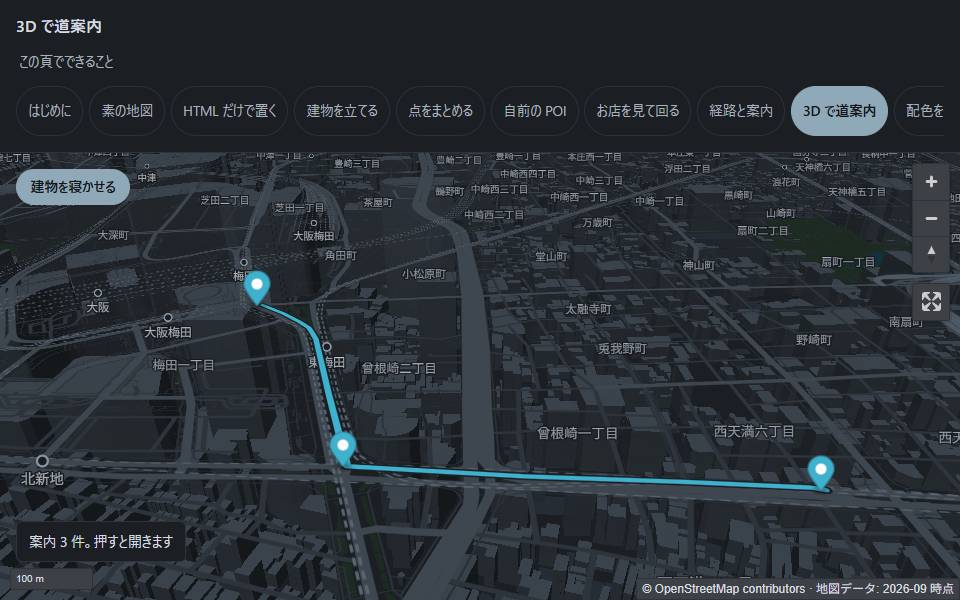
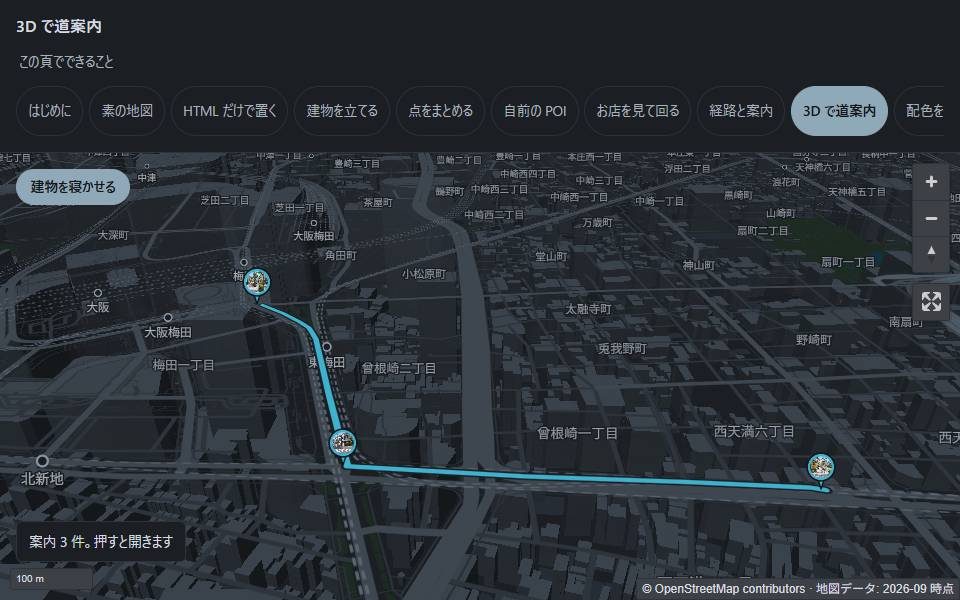
feat(route): ピンらしく尖りを付け、線と溶けないよう細く囲う
**2 つ指摘を受けた**（2026-10-09・本番を見て）。

1. 「できればピンぽく、〇 の ▼ を下につけたい」
2. 「**みちあんないの線といろがどうかしています。
   ボーダーでほそいせんでかこめるといいかも**」

## 尖り

丸だけだと**どこを指しているのか分からない**。地図の目印は
「先端がその地点」という読み方が共通していて、丸を中央に置くと
半径のぶん指す場所がぼやける。下に 8px の尖りを付け、
`anchor: "bottom"` で**先端を座標に合わせた**。

付け根は丸の内側へ入れる。離すと「丸と三角」に見えて、ピンに見えない。

## 囲い

**色だけで描くと、経路の線の上で溶ける**（線と同じ色なので）。
線は「色 ＋ 縁取り（casing）」で地図から浮かせているので、
**ピンも同じ作りにした**。丸の外側に 1.5px、尖りにも同じ色の `stroke`。

**新しい色は作っていない**（baseline §11）。`ROUTE_DEFAULTS.casingColor`
＝ 経路の線の縁取り・POI の縁・ラベルの縁取りと同じ値。

囲いのぶん箱を 3px 広げた（狭いと囲いが切れて、縁が欠けて見える）。

## 反映

LP のサムネ 2 枚（`shots/route.jpg` / `shots/3d-route.jpg`）を撮り直し、
`route` カードの `alt` と説明文も、写っているものに合わせた。

落ちるテストを先に 3 本（尖りの有無・箱の広さ・囲いの色が本体と違うこと）。
実物は 420px / 960px / 1440px で見て、線の上のピンが分かれることを確かめた。

Claude-Session: https://claude.ai/code/session_01JEnSBiPU7urDZnApNWnAtP

diff --git a/packages/elements/src/mmj-route.js b/packages/elements/src/mmj-route.js
@@ -142,8 +142,9 @@ export class MmjRoute extends HTMLElement {
       const spec = stepPinSpec(step, color ?? ROUTE_DEFAULTS.color);
       // **写真を持つ点だけ、自前の丸にする。**持たない点は既定のピンのまま
       // （見た目が違うこと自体が「ここに写真がある」の合図になる）
+      // **尖りの先が座標。**`anchor: "bottom"` で箱の下端を地点へ合わせる
       const options = spec.kind === "photo"
-        ? { element: photoPin(spec, step.text), anchor: "center" }
+        ? { element: photoPin(spec, step.text), anchor: "bottom" }
         : (color ? { color } : {});
       const marker = new maplibregl.Marker(options).setLngLat(step.lngLat);
       // **写真も文字も DOM で組む。**`setHTML` は使わない（popup.js の頭に理由）
@@ -182,19 +183,19 @@ let clipSeq = 0;
  * **`preserveAspectRatio="xMidYMid slice"` で中央を切る。**縦長でも横長でも
  * 丸が欠けない。`slice` が無いと余白が出て、**丸の中に四角が浮く**。
  *
- * @param {{ href: string | null, radius: number, size: number, color: string }} spec
+ * @param {{ href: string | null, radius: number, tail: number, width: number, height: number, color: string, casing: string }} spec
  * @param {string} label 読み上げ用（その点の案内文）
  * @returns {SVGSVGElement}
  */
 function photoPin(spec, label) {
-  const { size, radius, color } = spec;
-  const center = size / 2;
+  const { width, height, radius, tail, color, casing } = spec;
+  const center = width / 2;
   const clipId = `mmj-route-pin-${(clipSeq += 1)}`;
 
   const svg = document.createElementNS(SVG_NS, "svg");
-  svg.setAttribute("width", String(size));
-  svg.setAttribute("height", String(size));
-  svg.setAttribute("viewBox", `0 0 ${size} ${size}`);
+  svg.setAttribute("width", String(width));
+  svg.setAttribute("height", String(height));
+  svg.setAttribute("viewBox", `0 0 ${width} ${height}`);
   svg.setAttribute("role", "img");
   // **読み上げに「写真あり」まで伝える。**丸の中身は目で見た人にしか分からない
   svg.setAttribute("aria-label", label === "" ? "写真のある地点" : `${label}（写真あり）`);
@@ -223,7 +224,28 @@ function photoPin(spec, label) {
   ring.setAttribute("stroke", color);
   ring.setAttribute("stroke-width", "2.5");
 
-  svg.append(defs, image, ring);
+  // **その外側をもう 1 本、細く囲う。**色だけだと経路の線の上で溶ける
+  // （線と同じ色なので）。線が「色＋縁取り」で浮いているのと同じ作りにする
+  const border = circleAt(center, radius + 1.9);
+  border.setAttribute("fill", "none");
+  border.setAttribute("stroke", casing);
+  border.setAttribute("stroke-width", "1.5");
+
+  // **尖りは丸より先に描く。**あとに描くと、丸の縁の上に三角が乗って濁る。
+  // 三角にも同じ囲いを `stroke` で付ける（線の上に置いても形が残る）
+  const point = document.createElementNS(SVG_NS, "polygon");
+  const half = tail * 0.62;
+  // 付け根は丸の内側へ入れる。**離すと「丸と三角」に見えて、ピンに見えない**
+  point.setAttribute(
+    "points",
+    `${center - half},${width - 8} ${center + half},${width - 8} ${center},${height - 1}`,
+  );
+  point.setAttribute("fill", color);
+  point.setAttribute("stroke", casing);
+  point.setAttribute("stroke-width", "1.5");
+  point.setAttribute("stroke-linejoin", "round");
+
+  svg.append(defs, point, image, ring, border);
   return svg;
 }
 

diff --git a/apps/demo/index.html b/apps/demo/index.html
@@ -140,7 +140,7 @@
       <a class="lp-card" href="./cluster.html"><img class="lp-card-shot" src="./shots/cluster.jpg" width="960" height="600" loading="lazy" decoding="async" alt="点が丸いまとまりになり、件数が数字で乗っている画面"><b>点をまとめる</b><span>多い点を、寄ると解けるまとまりに</span></a>
       <a class="lp-card" href="./poi.html"><img class="lp-card-shot" src="./shots/poi.jpg" width="960" height="600" loading="lazy" decoding="async" alt="ベース地図の上に、自前の点と名前が重なっている画面"><b>自前の POI</b><span>ベース地図に触らず、自分のデータを重ねる</span></a>
       <a class="lp-card" href="./shops.html"><img class="lp-card-shot" src="./shots/shops.jpg" width="960" height="600" loading="lazy" decoding="async" alt="店のカードが開き、写真の下に撮影者の表記が出ている画面"><b>お店を見て回る</b><span>写真・星・長文をカードで。<strong>写真には撮影者の表記を添えられます</strong></span></a>
-      <a class="lp-card" href="./route.html"><img class="lp-card-shot" src="./shots/route.jpg" width="960" height="600" loading="lazy" decoding="async" alt="青い線で経路が引かれ、曲がる地点に目印が立っている画面"><b>経路と案内</b><span>渡された経路を描き、曲がる地点に吹き出し。<strong>写真も載ります</strong></span></a>
+      <a class="lp-card" href="./route.html"><img class="lp-card-shot" src="./shots/route.jpg" width="960" height="600" loading="lazy" decoding="async" alt="青い線で経路が引かれ、曲がる地点に写真入りのピンが立っている画面"><b>経路と案内</b><span>渡された経路を描き、曲がる地点に吹き出し。<strong>写真がある点は、ピンの中に写真が出ます</strong></span></a>
       <a class="lp-card" href="./3d-route.html"><img class="lp-card-shot" src="./shots/3d-route.jpg" width="960" height="600" loading="lazy" decoding="async" alt="建物が立った街の上を、青い経路の線が通っている画面"><b>3D で道案内</b><span>建物を立てたまま案内。<strong>知らない街では建物の形のほうが速い</strong></span></a>
       <a class="lp-card" href="./themes.html"><img class="lp-card-shot" src="./shots/themes.jpg" width="960" height="600" loading="lazy" decoding="async" alt="同じ地図を 6 つの配色で並べた画面"><b>配色を見くらべる</b><span>同じタイル・同じ構成で、色だけ違う 6 枚</span></a>
       <a class="lp-card" href="./brand.html"><img class="lp-card-shot" src="./shots/brand.jpg" width="960" height="600" loading="lazy" decoding="async" alt="テーマカラーが高速道路と駅に当たっている地図の画面"><b>サイトの色を当てる</b><span>テーマカラーを 1 色渡すだけ</span></a>

diff --git a/packages/elements/src/route.js b/packages/elements/src/route.js
@@ -46,6 +46,15 @@ const LINE_ONLY = ["==", ["geometry-type"], "LineString"];
 const PIN_RADIUS = { dot: 7, photo: 12 };
 
 /**
+ * 丸の下に付ける尖りの高さ（px）。**先端がその地点になる。**
+ *
+ * **丸だけだと、どこを指しているのか分からない。**地図の目印は
+ * 「先端がその地点」という読み方が共通していて、丸を中央に置くと
+ * **半径のぶん、指す場所がぼやける**（2026-10-09 の依頼）。
+ */
+const PIN_TAIL = 8;
+
+/**
  * ピンの中に何を出すかを決める。**ここは判断だけ**で、SVG は `mmj-route.js` が組む。
  *
  * ## なぜ要るのか
@@ -64,21 +73,39 @@ const PIN_RADIUS = { dot: 7, photo: 12 };
  * 吹き出しの `<img src>` と同じ経路で危ない URL を踏むので、
  * **`popup.js` と同じ判定**を通す（写すと片方だけ直す事故が起きる）。
  *
+ * ## 線の上で溶けないようにする
+ *
+ * **色だけで描くと、経路の線と同化する。**2026-10-09 に
+ * 「みちあんないの線といろがどうかしています。**ボーダーでほそいせんでかこめるといいかも**」
+ * と指摘を受けた。線は「色 ＋ 縁取り（casing）」で地図から浮かせているので、
+ * **ピンも同じ作りにする**。**新しい色は作らない**（baseline §11）——
+ * 線の縁取りと同じ値（`casingColor`）で細く囲う。
+ *
  * @param {{ image?: unknown }} step `extractSteps` が返す 1 件
  * @param {string} color 丸と縁の色（`step-color` / `accent` / 既定）
- * @returns {{ kind: "photo" | "dot", href: string | null, radius: number, size: number, color: string }}
+ * @param {string} [casing] 囲いの色。既定は経路の線の縁取りと同じ
+ * @returns {{
+ *   kind: "photo" | "dot", href: string | null,
+ *   radius: number, tail: number, width: number, height: number,
+ *   color: string, casing: string,
+ * }}
  */
-export function stepPinSpec(step, color) {
+export function stepPinSpec(step, color, casing = ROUTE_DEFAULTS.casingColor) {
   const image = typeof step?.image === "string" ? step.image.trim() : "";
   const usable = image !== "" && isSafeImage(image);
   const radius = usable ? PIN_RADIUS.photo : PIN_RADIUS.dot;
+  // 色の輪（2.5px）と、その外側の囲い（1.5px）が外へ出る。
+  // **箱を 3px ぶん広く取る**（狭いと囲いが切れて、縁が欠けて見える）
+  const width = (radius + 3) * 2;
   return {
     kind: usable ? "photo" : "dot",
     href: usable ? image : null,
     radius,
-    // 縁のぶん 2px ずつ外へ出る。**切れないように箱を大きく取る**
-    size: (radius + 2) * 2,
+    tail: PIN_TAIL,
+    width,
+    height: width + PIN_TAIL,
     color,
+    casing,
   };
 }
 

diff --git a/packages/elements/test/route.test.js b/packages/elements/test/route.test.js
@@ -43,6 +43,39 @@ describe("stepPinSpec", () => {
     const dot = stepPinSpec({ image: null }, "#000");
     expect(photo.radius).toBeGreaterThan(dot.radius);
   });
+
+  /**
+   * **丸だけだと、どこを指しているのか分からない。**
+   * 地図の目印は「先端がその地点」という読み方が共通していて、
+   * 丸を中央に置くと**半径のぶん、指す場所がぼやける**。
+   *
+   * 下に尖りを付けて、**尖りの先が座標**になるようにする（2026-10-09 の依頼）。
+   */
+  /**
+   * **線と同じ色だけで描くと、線の上で溶ける。**
+   * 2026-10-09 に「**みちあんないの線といろがどうかしています。
+   * ボーダーでほそいせんでかこめるといいかも**」と指摘を受けた。
+   *
+   * 経路の線は「色＋縁取り（casing）」で地図から浮かせている。
+   * **ピンも同じ作りにする**——新しい色は作らず、線の縁取りと同じ値で囲う。
+   */
+  it("**細い縁で囲む**（経路の線の上でも溶けない）", () => {
+    const photo = stepPinSpec({ image: "./a.jpg" }, "#3FB1CE");
+    expect(photo.casing).toBeTruthy();
+    expect(photo.casing).not.toBe(photo.color);
+  });
+
+  it("縁のぶん、箱を広く取る（**囲いが切れない**）", () => {
+    const photo = stepPinSpec({ image: "./a.jpg" }, "#000");
+    expect(photo.width).toBeGreaterThan(photo.radius * 2 + 4);
+  });
+
+  it("**丸の下に尖りを付ける**（先端がその地点になる）", () => {
+    const photo = stepPinSpec({ image: "./a.jpg" }, "#000");
+    expect(photo.tail).toBeGreaterThan(0);
+    // 箱の高さは、丸の直径（縁を含む）＋ 尖りのぶん
+    expect(photo.height).toBe(photo.width + photo.tail);
+  });
 });
 
 /**
